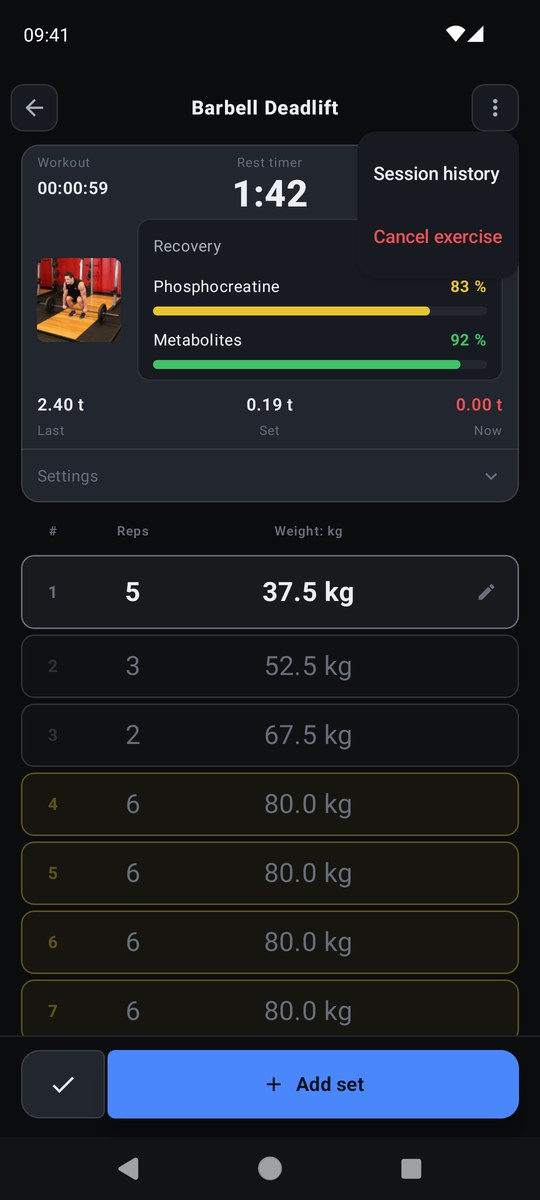
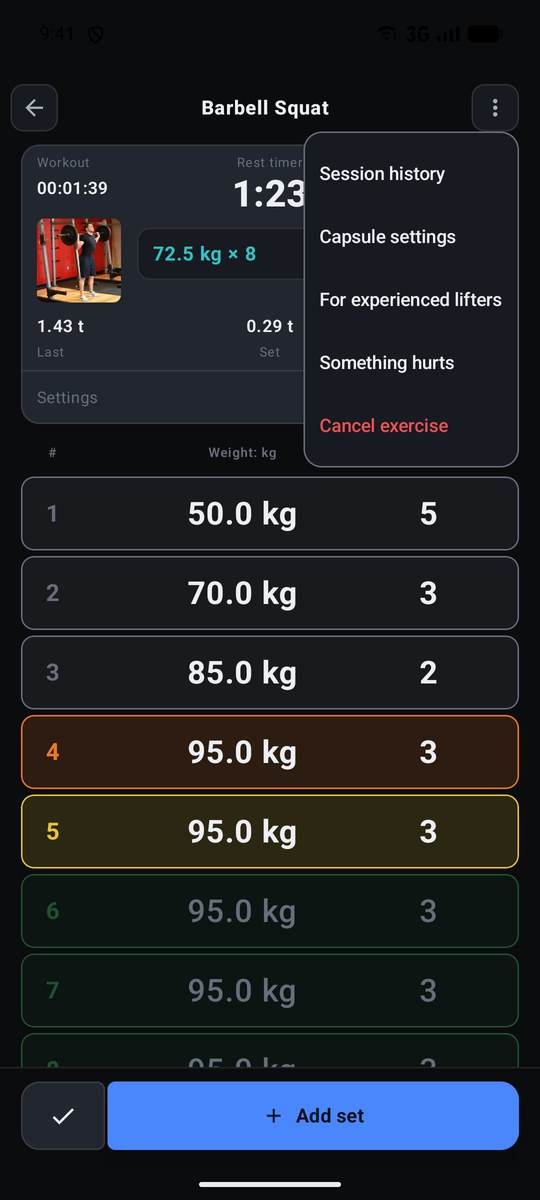
README: Totals with average weight and year by year, holding a set to edit, What they see (0.19.0)

diff --git a/README.md b/README.md
@@ -128,7 +128,7 @@ The start screen is a list of cards you arrange yourself: the calendar, a muscle
   </tr>
   <tr>
     <td><b>Session history.</b> Every previous session of this exercise as a list or as a table, one tap away from the exercise screen.</td>
-    <td><b>Exercise menu.</b> Destructive actions live behind ⋮ and ask first — a long press never performs an action. A set is edited with the pencil and deleted in the edit window, with Undo.</td>
+    <td><b>Exercise menu.</b> Destructive actions live behind ⋮ and ask first — a long press never performs an action. Hold a set to edit or delete it, with Undo; a tap adds a new set with the same numbers.</td>
     <td><b>Something hurts.</b> Mark a joint or a muscle and how much it hurts. Every exercise that loads that spot reminds you of it until you tap “It’s gone”; “A lot” comes with “see a doctor”.</td>
   </tr>
   <tr>
@@ -220,7 +220,7 @@ A finished workout can be reopened for 30 minutes — for the set you forgot or 
     <td width="33%"><img src="screenshots/programs.jpg" /></td>
   </tr>
   <tr>
-    <td><b>Planning hub.</b> Programs, analysis, records, the exercise library, periodization, goals, a 1RM calculator, history, your gym and guides. Hold a tile for two seconds and drag to reorder.</td>
+    <td><b>Planning hub.</b> Programs, analysis, records, totals, the exercise library, periodization, goals, a 1RM calculator, history, your gym and guides. Hold a tile for two seconds and drag to reorder.</td>
     <td><b>Tip of the day</b> at the bottom of the hub.</td>
     <td><b>Programs.</b> The current program, ready-made programs and the archive. A program with history is archived, never deleted — your workouts stay.</td>
   </tr>
@@ -253,6 +253,16 @@ A finished workout can be reopened for 30 minutes — for the set you forgot or 
     <td><b>A guide.</b> What the number is, why this number, what breaks if you change it, and where it comes from.</td>
     <td><b>My gym.</b> The bars and plates you have. The plate calculator in “Add set” loads the fewest plates and never more than exist; the exercise list can show only what your gym has.</td>
     <td><b>Share a program</b> by link, QR code, file or straight to a friend in the app. Your weights, history and cycles stay with you.</td>
+  </tr>
+  <tr>
+    <td><img src="screenshots/totals.jpg" /></td>
+    <td><img src="screenshots/totals-exercise.jpg" /></td>
+    <td><img src="screenshots/totals-yearly.jpg" /></td>
+  </tr>
+  <tr>
+    <td><b>Totals.</b> Every exercise you did over 2 weeks, a month, a year, all time or your own dates — sessions, sets and working tonnage.</td>
+    <td><b>An exercise’s totals.</b> Sets, reps, average weight and tonnage for each effort rating, from warm-up to max. Shown as a table, a share bar or tiles; wide tables scroll sideways.</td>
+    <td><b>Year by year.</b> The average set weight for each rating in every calendar year, with the change against the previous year — is your “medium” heavier than it used to be?</td>
   </tr>
 </table>
 
@@ -399,7 +409,7 @@ All-time bests — over the whole history or for one muscle group, plus the fast
 
 While a friend trains, their card in the Feed is live: what they are doing right now — gym, cardio or outdoors — and the exercise they are on. Send a reaction, a GIF or a photo into the conversation under the workout.
 
-A published workout is a snapshot: exercises, sets with their rest and heart rate, photos and runs (with the route, unless you turn that off) — never your program, days or cycles. Publishing can be turned off.
+A published workout is a snapshot: exercises, sets with their rest and heart rate, photos and runs — never your program, days or cycles. The *What they see* tab in Friends decides what leaves the phone: what you’re doing live, new workouts and run routes. From one friend you can hide more (⋮ next to them → *What … sees*); they won’t know something is hidden.
 
 ---
 
@@ -471,9 +481,9 @@ Requires Android 10 or newer. Updates install only over a build signed with the 
 ## Privacy
 
 - Your training data is stored on your phone. There are no ads and no analytics trackers.
-- The server (Supabase) holds only what the social part needs: your account, profile name and friend code, friendships, published workouts, likes and comments. Your profile photo is visible to anyone signed in.
+- The server (Supabase) holds only what the social part needs: your account, profile name and friend code, friendships, published workouts, likes and comments. Your profile photo is visible to anyone signed in. What you hide from a friend in *What they see* is withheld by the server itself, not by the friend’s phone.
 - Health Connect is only read — sleep, steps, calories, resting heart rate and weight — and nothing from it is stored.
-- Map tiles come from OpenFreeMap. Your GPS track stays on the phone; a run's route reaches friends only in a published workout, and that can be turned off.
+- Map tiles come from OpenFreeMap. Your GPS track stays on the phone; a run's route reaches friends only in a published workout, and *What they see* can turn that off.
 - Backups are files you own — in your Downloads folder or wherever you put them.
 
 ## License
